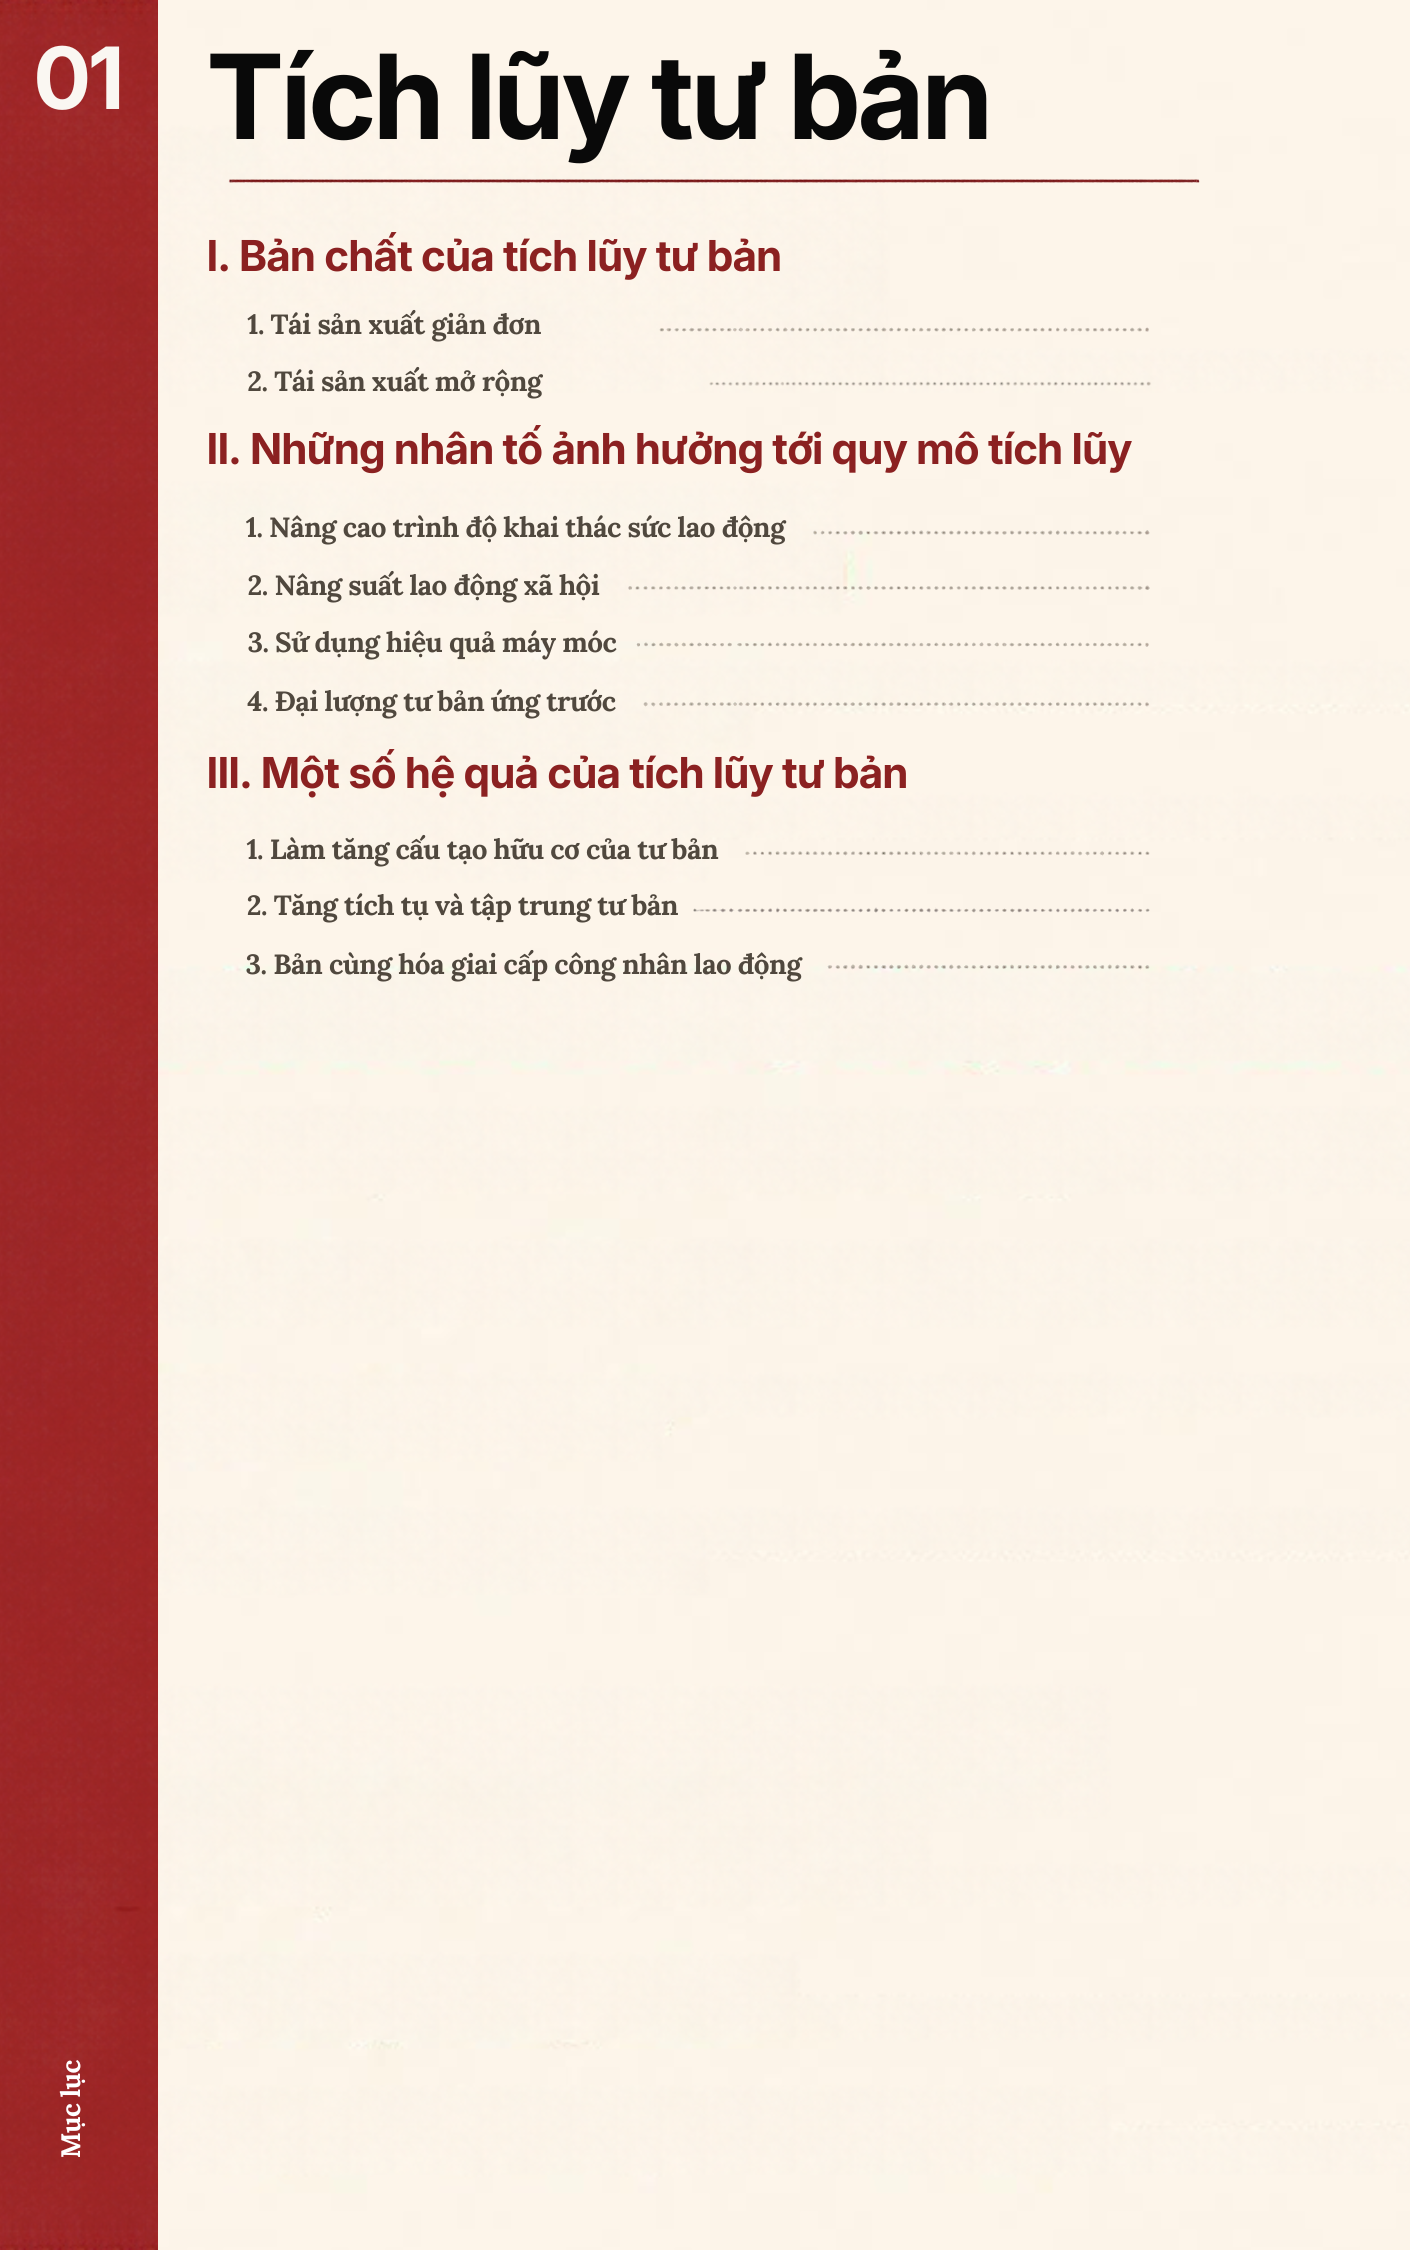
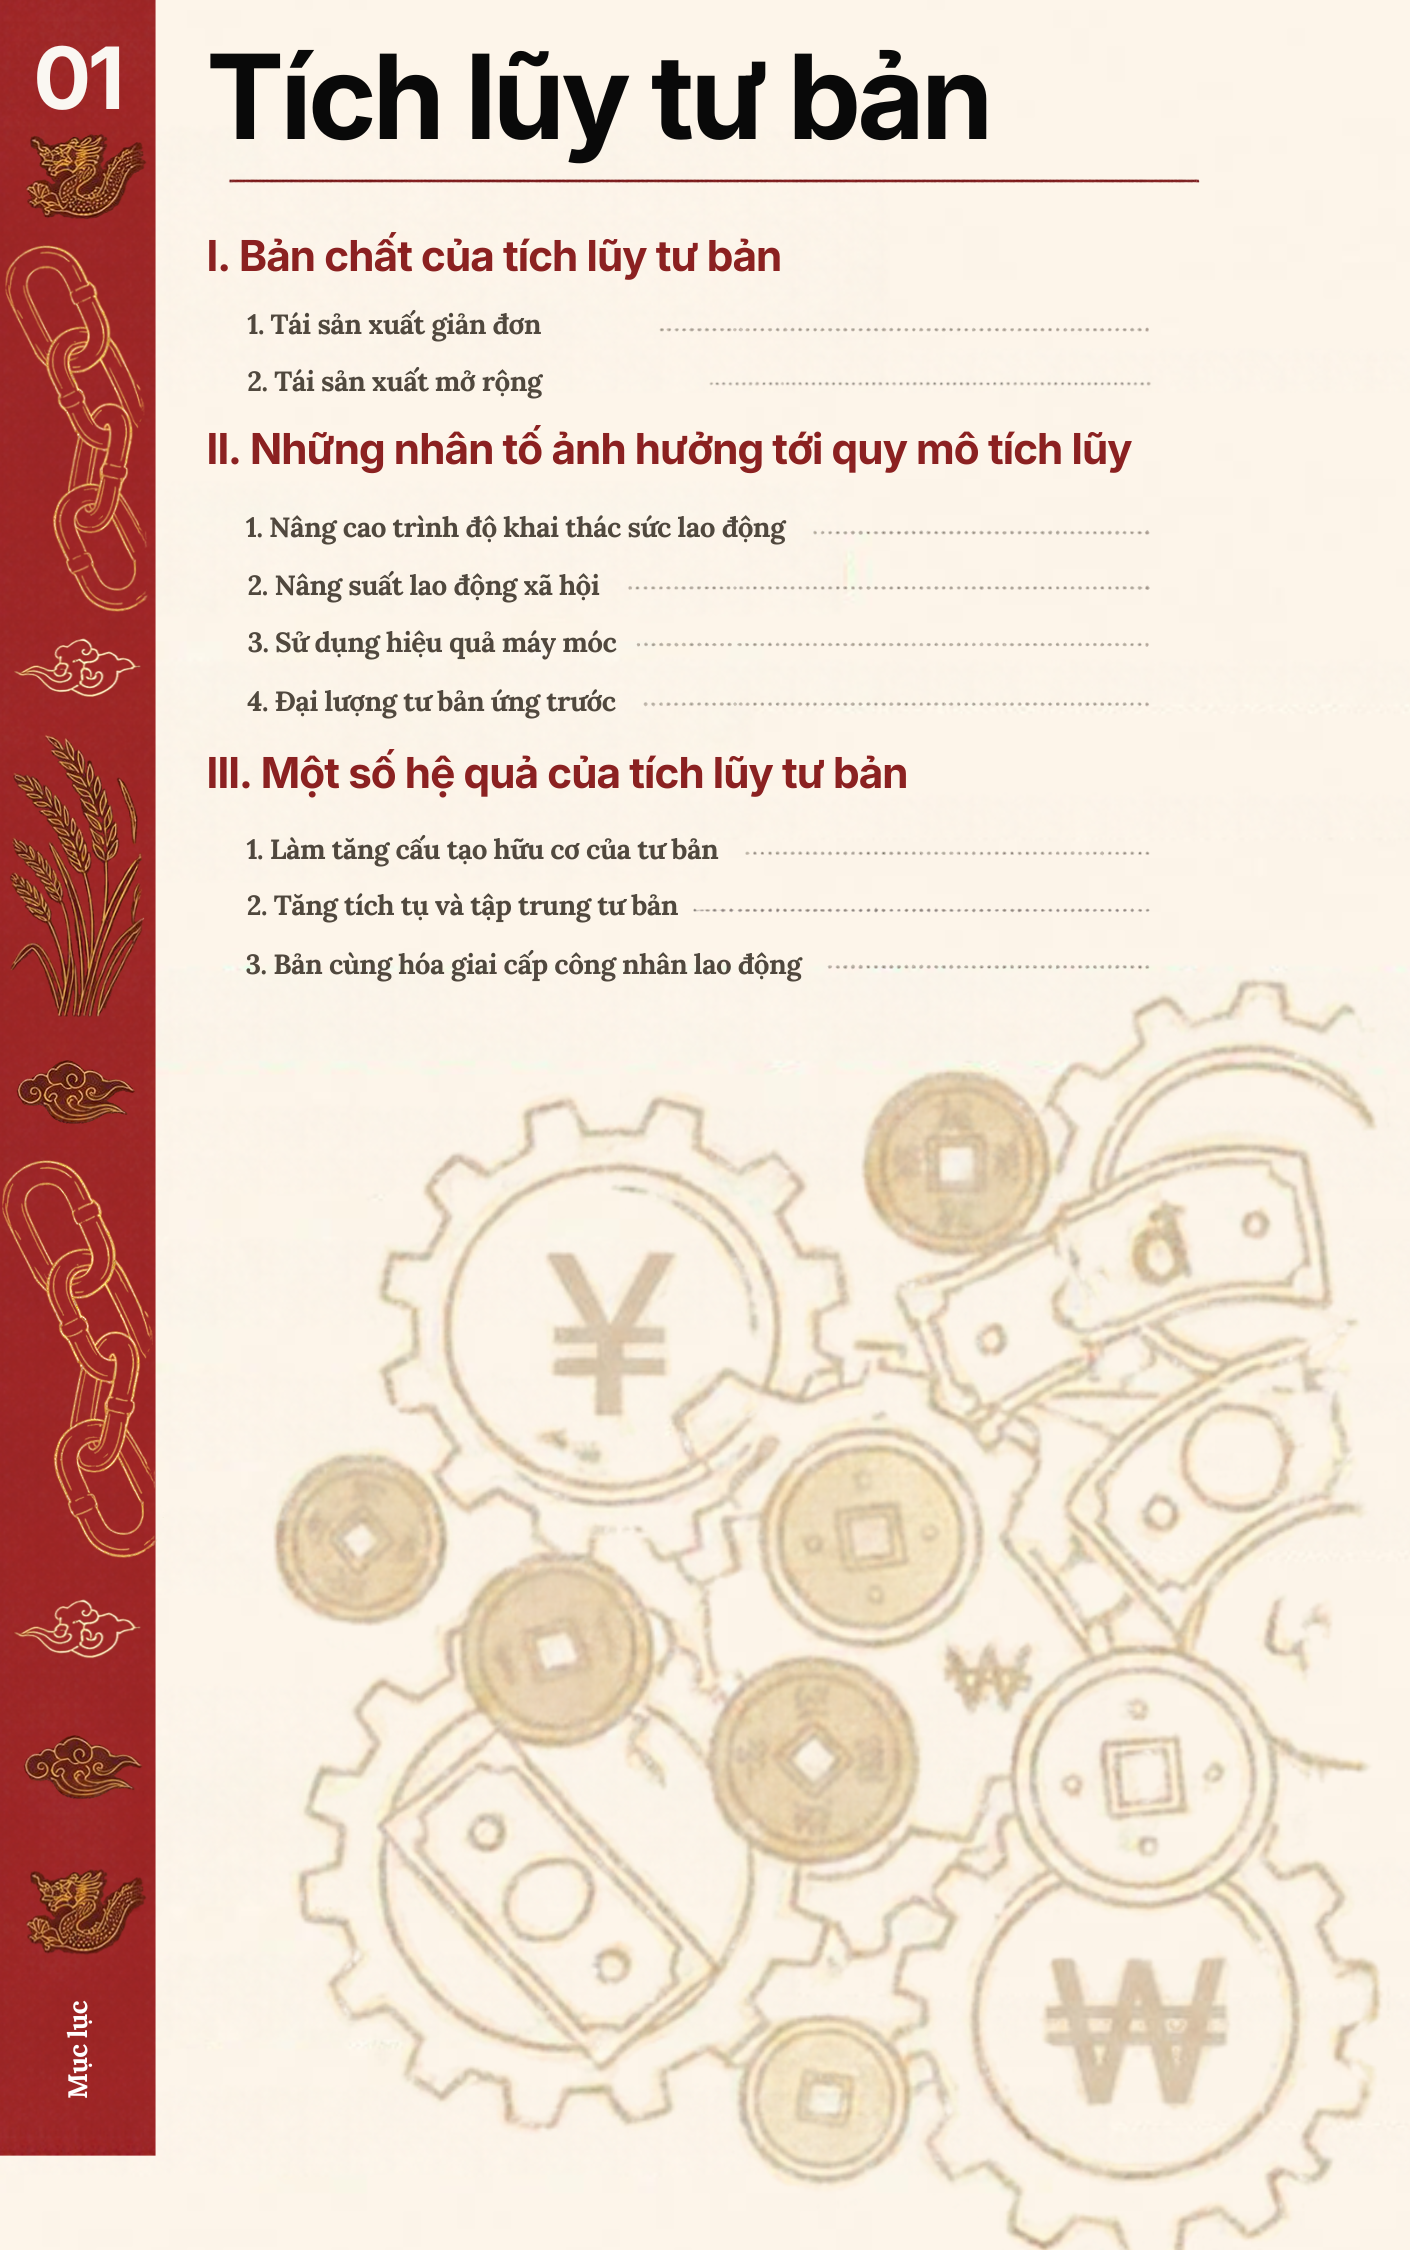
2.3

diff --git a/index.html b/index.html
@@ -6,6 +6,7 @@
     <title>Tích lũy tư bản - Kinh tế chính trị Mác - Lê-nin</title>
     <link rel="stylesheet" href="./style.css">
     <script src="./main.js" defer></script>
+    <meta name="viewport" content="width=device-width, initial-scale=1.0">
 </head>
 <body>
     <div id="book" class="book">
@@ -29,55 +30,26 @@
             </div>
             <div class="back">
                 <div id="b7" class="back-content">
-                    <h1>Back 2</h1>
+                    <image src="./image/4.png" alt="Ảnh trang 1" class="page-img"></image>
                 </div>
             </div>
         </div>
         <div id="p3" class="paper">
             <div class="front">
                 <div id="f3" class="front-content">
-                    <image src="./image/02.png" alt="Ảnh trang 1" class="page-img"></image>
+                    <image src="./image/5.png" alt="Ảnh trang 1" class="page-img"></image>
                 </div>
             </div>
             <div class="back">
                 <div id="b3" class="back-content">
+                    <image src="./image/6.png" alt="Ảnh trang 1" class="page-img"></image>
                 </div>
             </div>
         </div>
         <div id="p4" class="paper">
             <div class="front">
                 <div id="f4" class="front-content">
-                    <h2>3. Kết luận</h2>
-                    <p>Cùng một lượng tư bản ứng trước ban đầu:</p>
-                    <p>Tư bản lớn + Không biết dùng máy  Chi phí vận hành cao, máy mau hỏng  Giá trị thặng dư thấp/âm  Không thể tích lũy tư bản.</p>
-                    <p>Tư bản lớn + Biết dùng máy hiệu quả  Tối ưu chi phí, nâng cao năng suất  Giá trị thặng dư tối đa  Tích lũy tư bản bứt phá.</p>
-                </div>
-            </div>
-            <div class="back">
-                <div id="b4" class="back-content">
-                    <h1>d. Đại lượng tư bản ứng trước.</h1>
-                    <h2>1. Khái niệm.</h2>
-                    <p>Đại lượng tư bản ứng trước là tổng số tư bản mà nhà tư bản phải ứng ra ban đầu để tổ chức và duy trì quá trình sản xuất kinh doanh.</p>
-                    <p>Xét về mặt cấu thành, tư bản ứng trước gồm:</p>
-                    <ul>
-                        <li>-Tư bản bất biến: dùng để mua tư liệu sản xuất như máy móc, nhà xưởng, nguyên vật liệu,...</li>
-                        <li>-Tư bản khả biến (v): dùng để mua sức lao động.</li>
-                    </ul>
-                    <h2>2. Vai trò đối với quy mô tích lũy tư bản.</h2>
-                    <p>Đại lượng tư bản ứng trước càng lớn thì nhà tư bản càng có điều kiện:</p>
-                    <ul>
-                        <li>- Mở rộng quy mô sản xuất;</li>
-                        <li>- Đầu tư thêm máy móc, thiết bị và nguyên vật liệu;</li>
-                        <li>- Thuê thêm lao động;</li>
-                        <li>- Tăng khối lượng hàng hóa được sản xuất.</li>
-                    </ul>
-                    <p>Khi thị trường thuận lợi, hàng hóa được tiêu thụ và các yếu tố khác tương đối ổn định, quy mô tư bản ứng trước lớn sẽ tạo điều kiện:</p>
-                    <ul>
-                        <li>- Tăng quy mô sản xuất;</li>
-                        <li>- Tăng khả năng tạo ra giá trị thặng dư;</li>
-                        <li>- Tăng khả năng dành một phần giá trị thặng dư cho tích lũy tư bản.</li>
-                    </ul>
-                    <p>Vì vậy, đại lượng tư bản ứng trước là một tiền đề quan trọng đối với việc gia tăng quy mô tích lũy tư bản.</p>
+                    <image src="./image/7.png" alt="Ảnh trang 1" class="page-img"></image>
                 </div>
             </div>
         </div>

diff --git a/style.css b/style.css
@@ -243,3 +243,7 @@ body {
     padding: 0.8em 1em 0.55em;
     margin: 0.9em 0 0.7em;
 }
+
+@media (max-width: 768px) {
+    /* CSS dành riêng cho điện thoại */
+}
